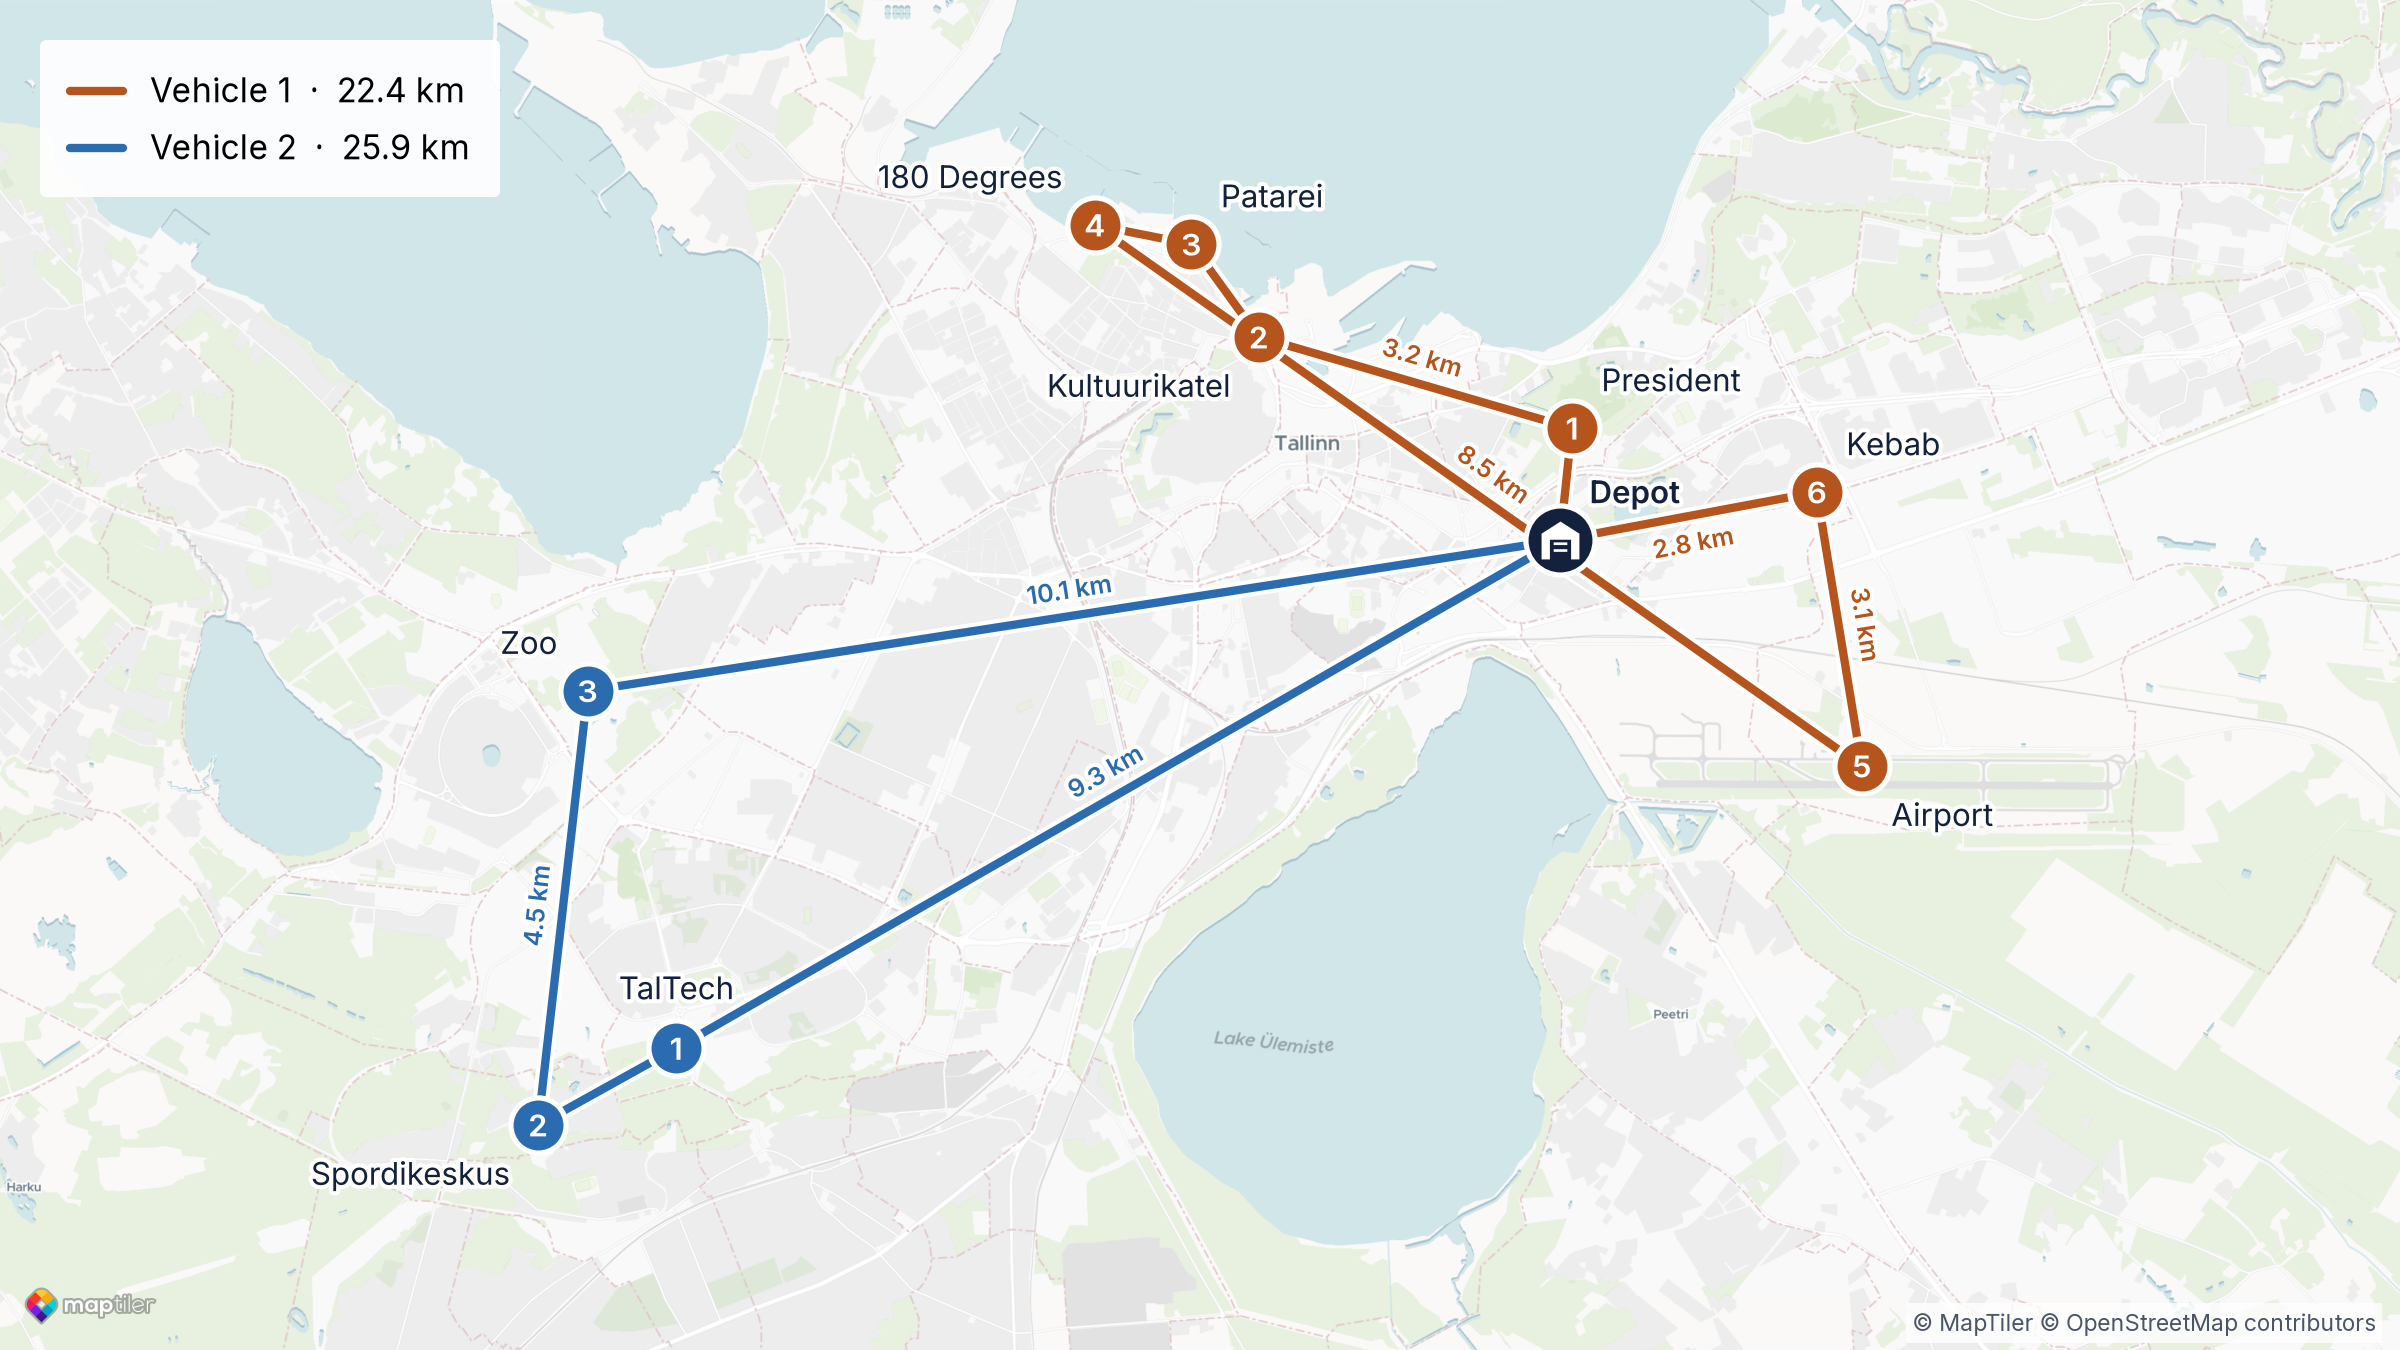
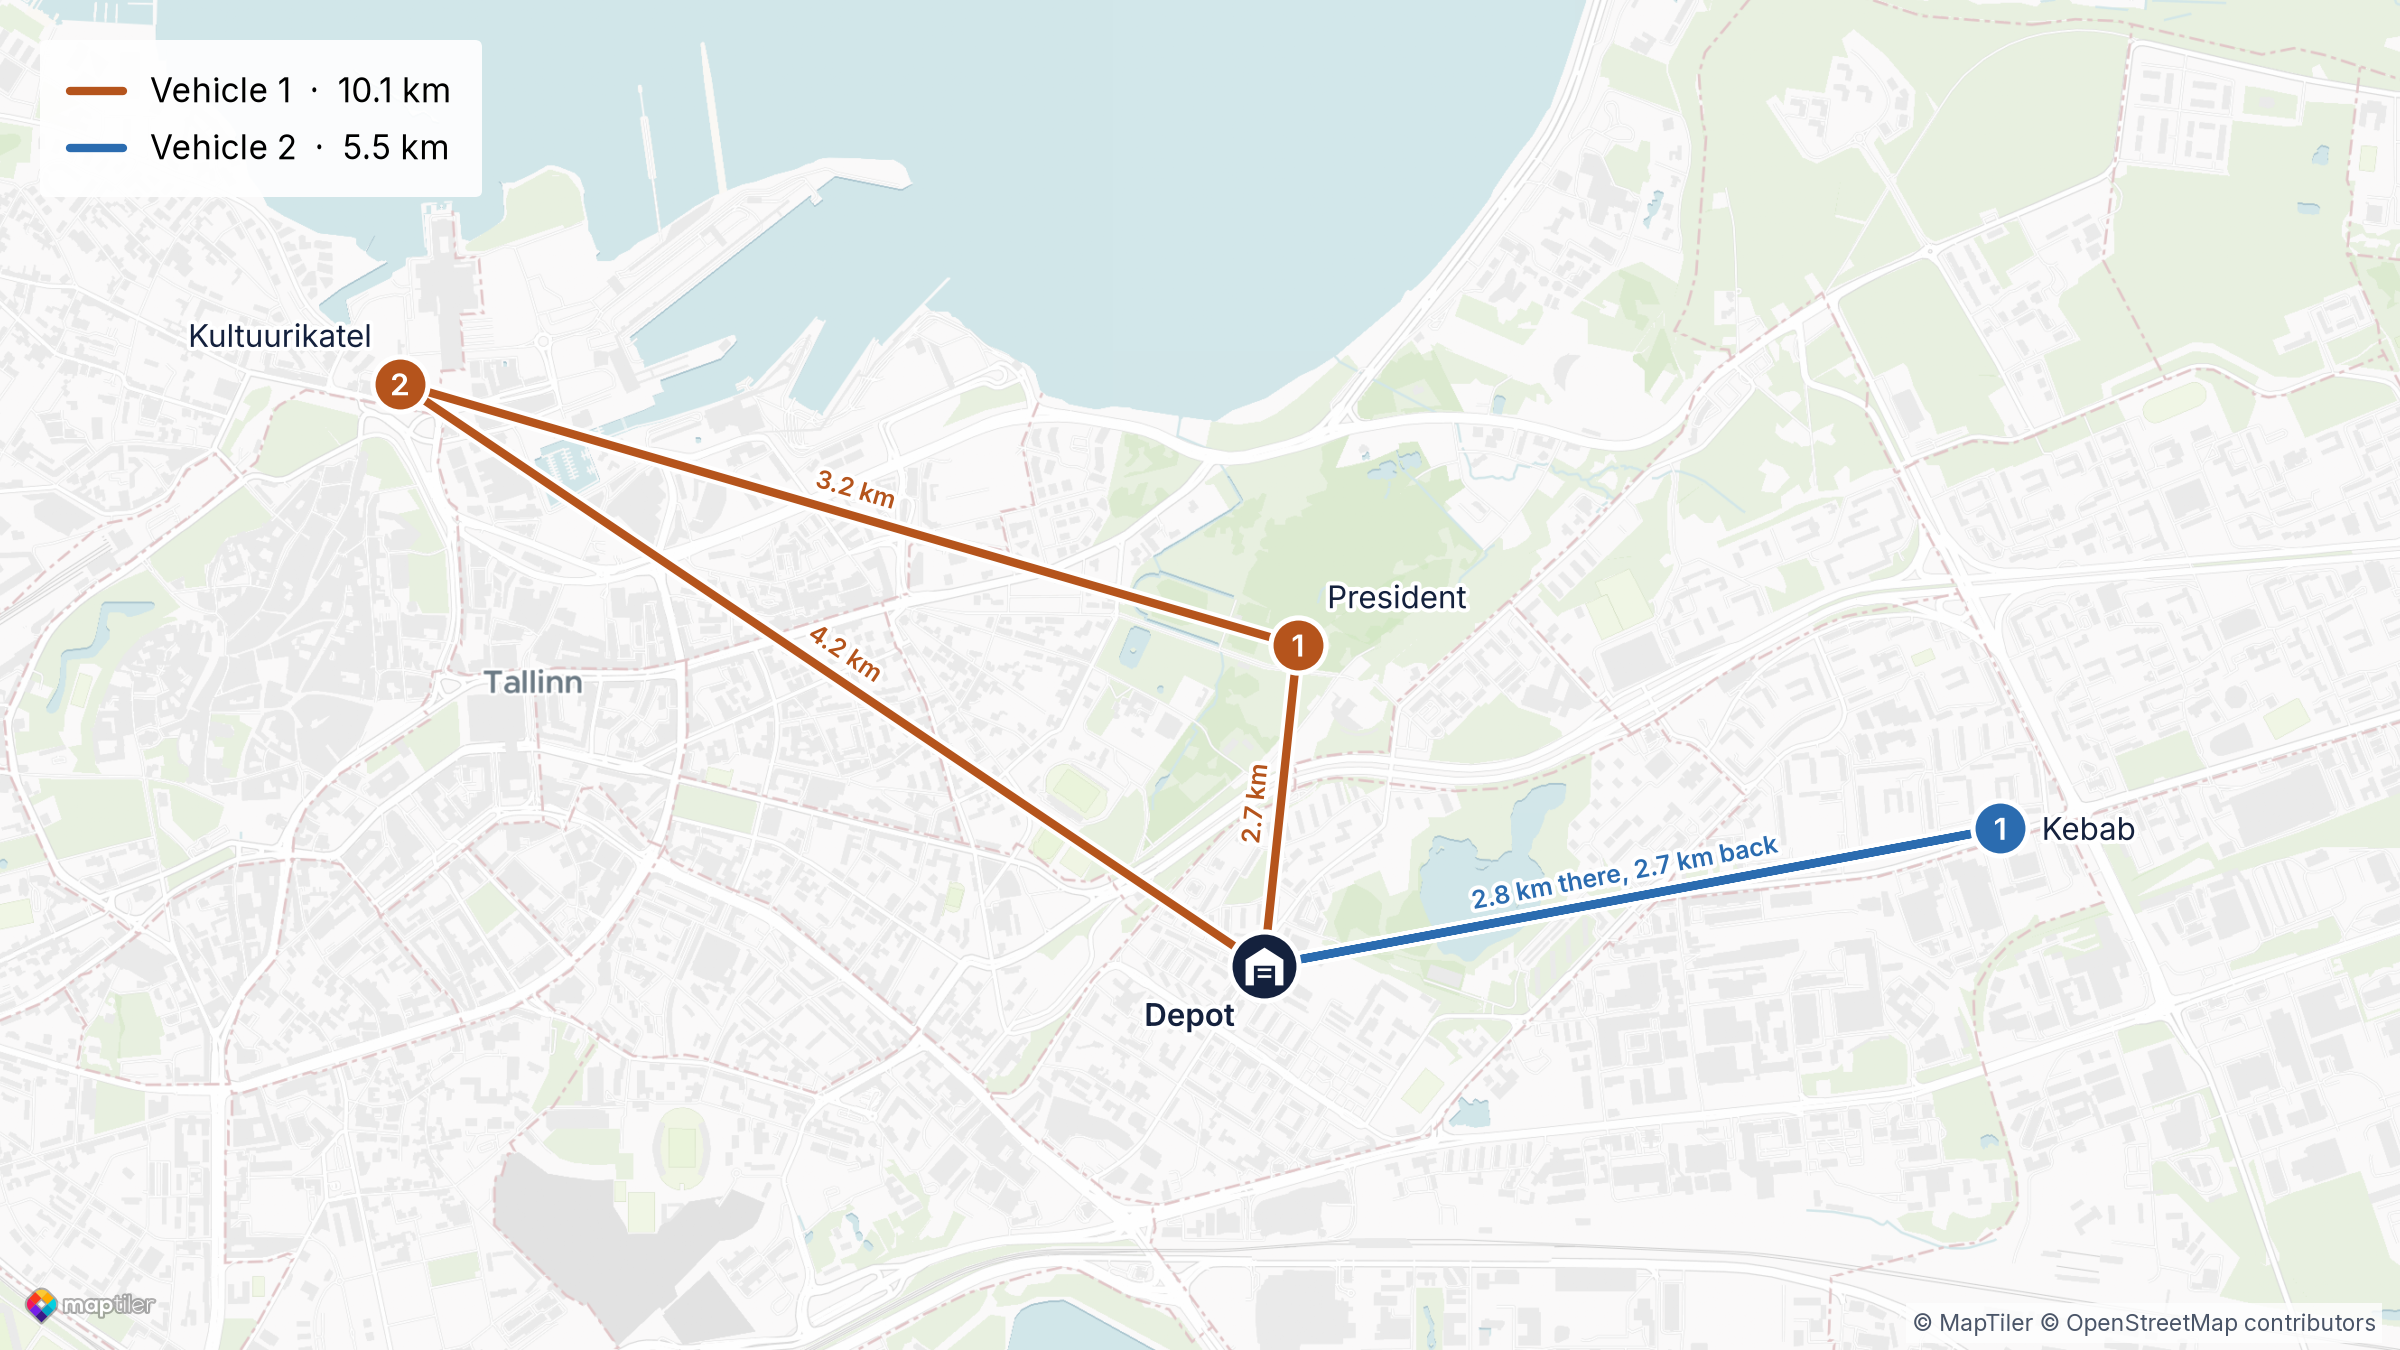
Show only brute-force optimal routes on slide maps

diff --git a/presentation/maps/render_maps.py b/presentation/maps/render_maps.py
@@ -6,9 +6,9 @@
 
 Reads map definitions from routes.json and writes one PNG per map to
 presentation/img/. "stop_labels" in routes.json gives stops a shorter name on
-the maps than in the matrix file. Routes are straight lines. Each leg shows the symmetrised
-distance the solvers use, D[min(i, j)][max(i, j)], beside the line where there
-is room for it. Tiles, fonts and the logo are cached in .cache/, so re-renders
+the maps than in the matrix file. Routes are straight lines. Each leg shows its
+one-way road distance D[i][j] beside the line where there is room for it. A leg
+driven in both directions gets one label with both distances. Tiles, fonts and the logo are cached in .cache/, so re-renders
 while tweaking the style run offline.
 
 Run from anywhere: uv run presentation/maps/render_maps.py
@@ -117,7 +117,7 @@ def check_maps(maps: list[dict], point_count: int) -> None:
 
 
 def edge_km(distances: list[list[int]], a: int, b: int) -> float:
-    return distances[min(a, b)][max(a, b)] / 1000
+    return distances[a][b] / 1000
 
 
 def fit_extent(xs: list[float], ys: list[float], aspect: float, pad: float = 0.25) -> tuple[float, float, float, float]:
@@ -327,8 +327,15 @@ def draw_panel(ax, routes: list[dict], colours: list[str], matrix: dict, extent:
     legend_box = legend.get_window_extent()
     obstacles.append((legend_box.x0, legend_box.y0, legend_box.x1, legend_box.y1))
 
+    driven = [(a, b) for _, a, b in legs]
     for n, (colour, a, b) in enumerate(legs):
-        obstacles.extend(label_leg(ax, legs_px[n], legs_px[:n] + legs_px[n + 1:], obstacles, f"{edge_km(distances, a, b):.1f} km",
+        if (b, a) in driven[:n]:
+            continue
+        text = f"{edge_km(distances, a, b):.1f} km"
+        if (b, a) in driven:
+            text = f"{text} there, {edge_km(distances, b, a):.1f} km back"
+        other_legs = [legs_px[k] for k in range(len(legs)) if driven[k] not in ((a, b), (b, a))]
+        obstacles.extend(label_leg(ax, legs_px[n], other_legs, obstacles, text,
                                    fontsize=LEG_LABEL_FONTSIZE, fontweight=600, color=colour, path_effects=halo, zorder=4))
 
 
@@ -338,14 +345,13 @@ def render_map(spec: dict, matrix: dict, tile_url: str, logo) -> Path:
     panel_w = (1 - PANEL_GAP * (len(panels) - 1)) / len(panels)
     aspect = FIG_WIDTH_IN * panel_w / fig_h
 
-    # All panels share one map area so the routes are directly comparable.
     stop_xy = [to_mercator(p["lon"], p["lat"]) for p in matrix["points"]]
-    used = {s for panel in panels for route in panel["routes"] for s in route["stops"]}
-    extent = fit_extent([stop_xy[s][0] for s in used], [stop_xy[s][1] for s in used], aspect)
-
     fig = plt.figure(figsize=(FIG_WIDTH_IN, fig_h), dpi=DPI)
     colours = iter(ROUTE_COLOURS)
     for n, panel in enumerate(panels):
+        # Each panel zooms to fit its own stops.
+        used = {s for route in panel["routes"] for s in route["stops"]}
+        extent = fit_extent([stop_xy[s][0] for s in used], [stop_xy[s][1] for s in used], aspect)
         ax = fig.add_axes((n * (panel_w + PANEL_GAP), 0, panel_w, 1))
         draw_panel(ax, panel["routes"], [next(colours) for _ in panel["routes"]], matrix, extent, tile_url)
 

diff --git a/presentation/slides.md b/presentation/slides.md
@@ -109,15 +109,15 @@ Say what limited n: simulator memory, circuit depth, or success probability.
 
 ### 2 · Results · Step 1
 
-## Optimal route vs QAOA
+## Shortest routes: 5 and 10 locations
 
-![w:900](img/step1_comparison.png)
+![w:900](img/step1_routes.png)
 
-<span class="small">Symmetrised road distances, as used by the solvers. <span class="todo">[real QAOA route]</span></span>
+<span class="small">Brute force over every order, on one-way road distances.</span>
 
 <!--
-~20 s. Left: brute force over all orders. Right: the best route QAOA sampled.
-Point at the legs where the two differ and give the gap in km and %.
+~20 s. Left: depot + 4 stops, 24 orders, 17.0 km. Right: depot + 9 stops, 362,880 orders, 40.3 km.
+One-way streets make direction matter: each route driven in reverse is longer (18.2 km and 41.7 km).
 Map: presentation/maps/routes.json, re-render with `uv run presentation/maps/render_maps.py`.
 -->
 
@@ -125,19 +125,17 @@ Map: presentation/maps/routes.json, re-render with `uv run presentation/maps/ren
 
 ### 2 · Results · Step 2
 
-## Two vehicles: 48.3 km instead of 40.2 km
+## Two vehicles: 3 stops, 15.6 km
 
-![w:900](img/step2_comparison.png)
+![w:900](img/step2_routes.png)
 
-<span class="small">Symmetrised road distances. Each van may drive at most 30.2 km, 75 % of the one-van tour. QAOA returns this plan in up to **97 %** of shots (simulated, 175 qubits).</span>
+<span class="small">Brute force over every split and order, on one-way road distances. Each van serves at least one stop.</span>
 
 <!--
-~50 s. Left: the step 1 tour, one van, 40.2 km. Right: the best plan when no van may drive more than 30.2 km.
-Why a limit: without one, the best two-van plan leaves the second van at the depot. The limit stands for the working day: a van spends it driving and handing over parcels.
-Brute force over all 3,628,800 orders gives one best pair of routes: 22.4 km and 25.9 km, 20 % more than one van.
-Approach: a copy of the depot in the list of stops turns two routes into one order, so the step 1 circuit works unchanged. The distance limit is checked inside the circuit with quantum arithmetic.
-Hard limit: 97 % of shots are the best plan, 175 qubits, 143 million CX gates. Penalty version: 11.5 % of shots, 138 qubits, 3.8 million CX gates, and fewer cost evaluations overall.
-Numbers: solutions/problem_2_two_vehicles/README.md. Map: presentation/maps/routes.json.
+~50 s. Depot + 3 stops, two vans: the instance from Eli_two_couriers_solution.ipynb (18 qubits).
+Brute force over all 12 plans gives 15.6 km: one van drives 10.1 km to the President's Office and Kultuurikatel, the other 5.5 km to the kebab shop and back.
+The next best plan visits the same stops in reverse order and is 0.2 km longer, because of one-way streets.
+Map: presentation/maps/routes.json.
 -->
 
 ---
